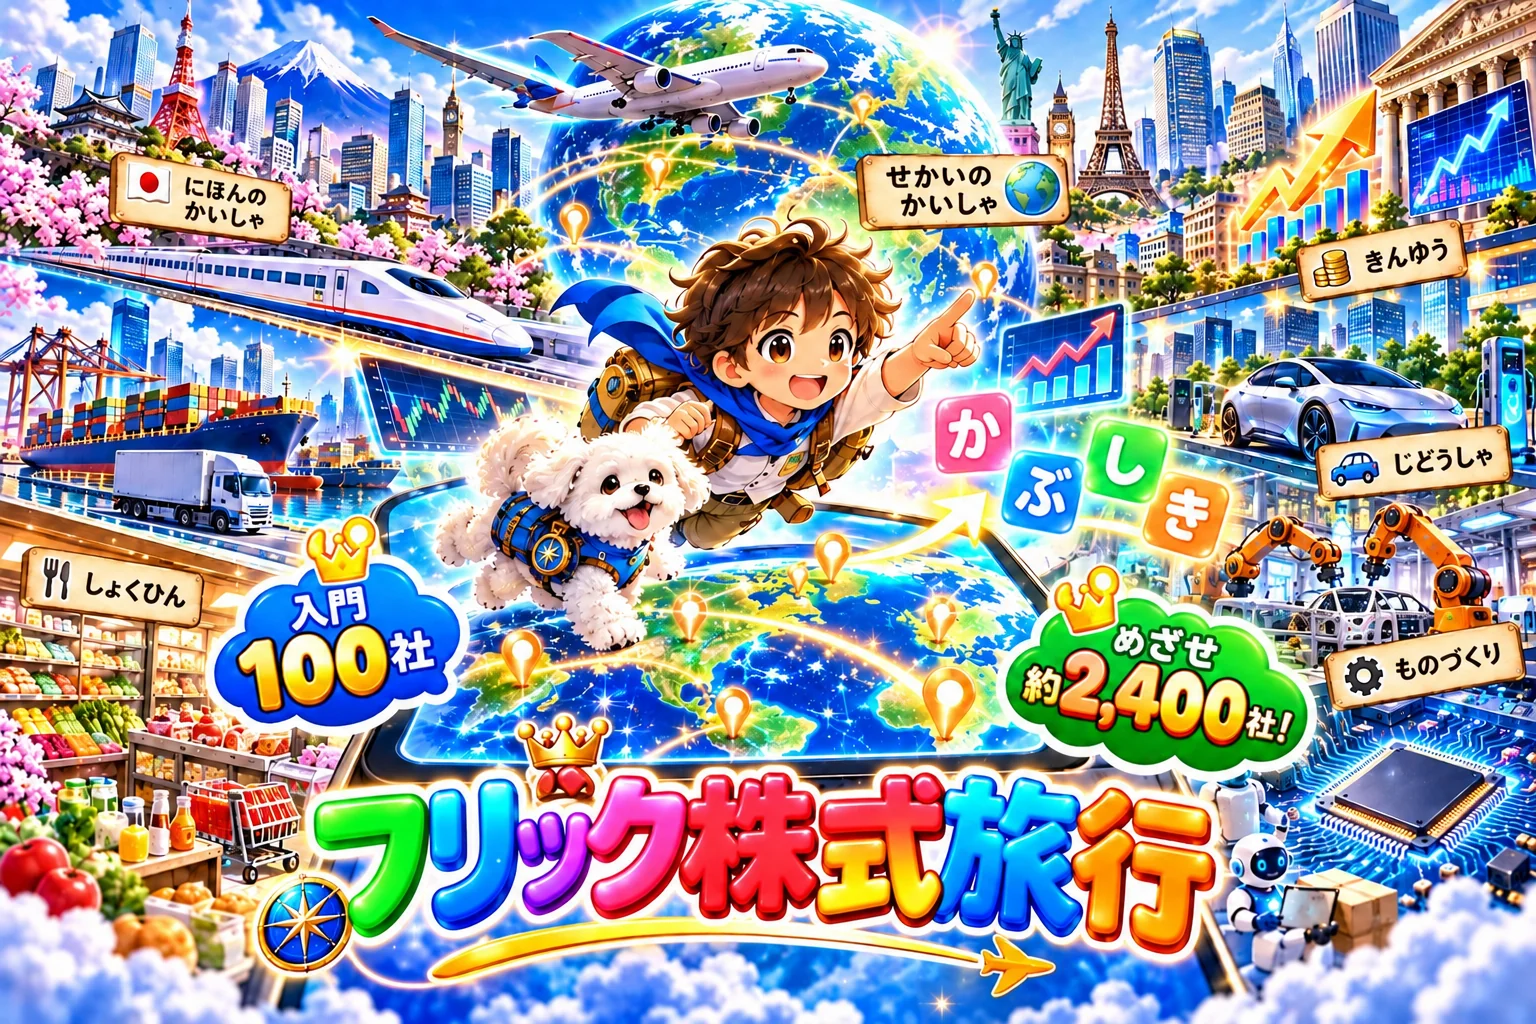
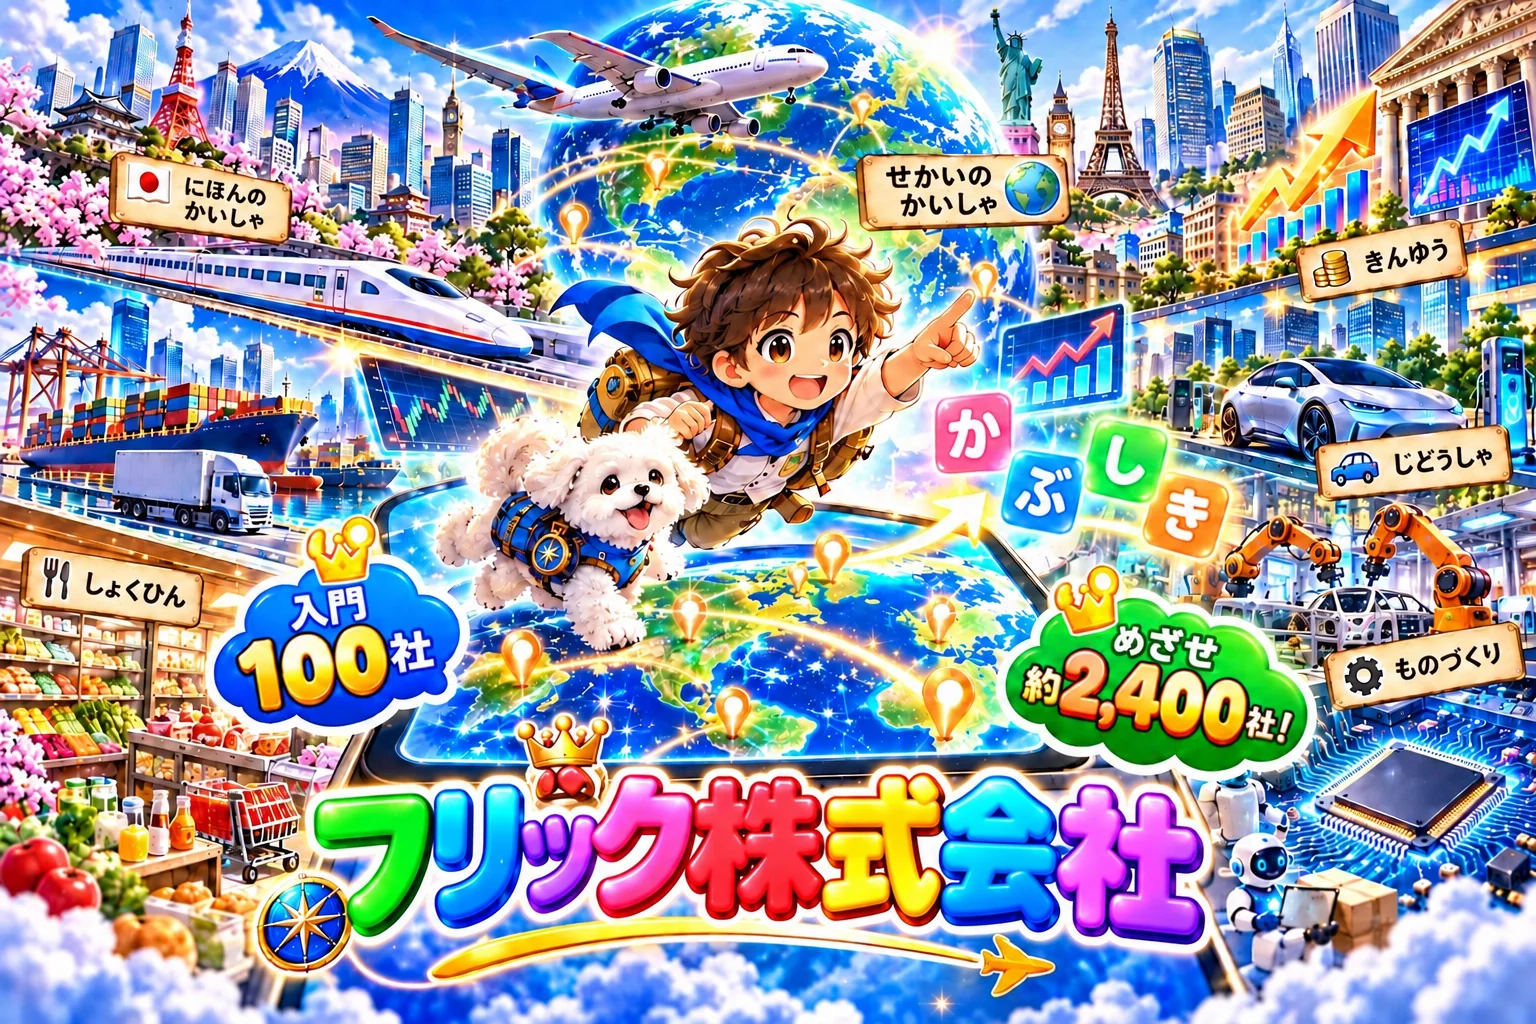
フリック株式旅行: トップの 絵を けいくんの 新しい 絵(題名 フリック株式会社)に
Claude-Session: https://claude.ai/code/session_011SmHRfS48asPXBze6LzYiU

diff --git a/kabu/index.html b/kabu/index.html
@@ -424,11 +424,11 @@ ruby.nm rt{font-size:10px;font-weight:500;color:var(--muted);letter-spacing:.02e
          読みあげソフトには かくして、下の <h1> が 名前を言う -->
     <div class="logo">
       <img class="logo-mark" src="logo-mark2.webp?v=4" alt="" width="144" height="144" aria-hidden="true">
-      <img class="logo-word" src="logo-word.webp?v=4" alt="" width="900" height="187" aria-hidden="true">
+      <img class="logo-word" src="logo-word.webp?v=5" alt="" width="900" height="187" aria-hidden="true">
       <button class="prof-btn" id="prof-btn" aria-label="マイページ"><span class="nm"></span><span class="tile sm sk-card" id="prof-tile">?</span></button>
     </div>
     <h1 class="sr-only">フリック株式旅行</h1>
-    <img class="hero" src="hero.webp?v=4" alt="フリック株式旅行。世界の 会社の 町と 地球を 男の子と 犬が 飛んで 旅する 絵" width="1536" height="1024">
+    <img class="hero" src="hero.webp?v=5" alt="フリック株式旅行。世界の 会社の 町と 地球を 男の子と 犬が 飛んで 旅する 絵" width="1536" height="1024">
     <p class="lead" id="lead">世界と日本の名所・地名・首都を、ひらがなでどれだけ速く打てるか。10問のトータルタイムで勝負しながら、旅に出よう。</p>
     <div class="modes" id="modes"></div>
     <div id="kabu-panel"></div><!-- 株式フリック旅行だけ: 集めた会社・称号(kabu/kabu.js) -->

diff --git a/tools/build_games.py b/tools/build_games.py
@@ -24,7 +24,7 @@ GAMES = {
                    rule="ルール：予測変換は使わずに、自分の指で打ち切ろう。速くなるほど、からだのしくみも自然と覚えられるよ。"),
     # 株式フリック旅行(けいくん 2026-09-26)。絵は けいくんの ChatGPT の 絵(kabu/hero.webp)。題名は GrabCut で 切りぬいた(tools/kabu/logo_cut.py)
     "kabu": dict(name="フリック株式旅行", modes="KABU", kinds=set(), color="#0f6fa8", hero=True, logo=True,
-                 art=dict(word=(900, 187), hero=(1536, 1024), alt="フリック株式旅行。世界の 会社の 町と 地球を 男の子と 犬が 飛んで 旅する 絵", iconv=4, wordv=4),
+                 art=dict(word=(900, 187), hero=(1536, 1024), alt="フリック株式旅行。世界の 会社の 町と 地球を 男の子と 犬が 飛んで 旅する 絵", iconv=4, wordv=5),
                  lead="世界の会社・日本の会社の名前を、ひらがなでフリック入力。10問ずつ あそぶうちに、どこの国の・どんな仕事の 会社なのかが 自然と 身につくよ。入門100社から はじめて、めざせ 世界の会社 約2,400社。",
                  how="表示された ひらがなを、そのまま打ち写してね。こたえると、その会社の 国・業種・ひとことが 出るよ。入門は だれでも知っている会社。どのステージも いつも同じ10問なので、タイムをくらべられるよ。",
                  rule="ルール：予測変換は使わずに、自分の指で打ち切ろう。あそぶほど、世界の会社と なかよくなれるよ。"),
